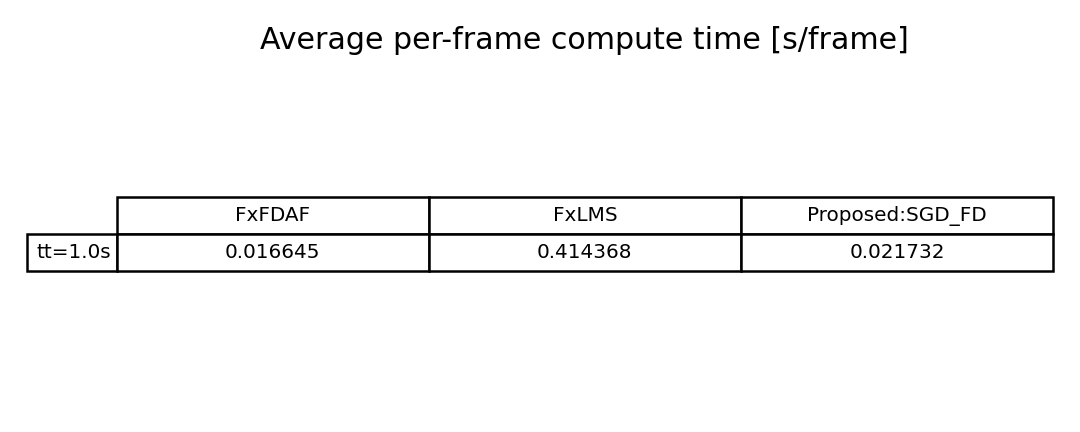
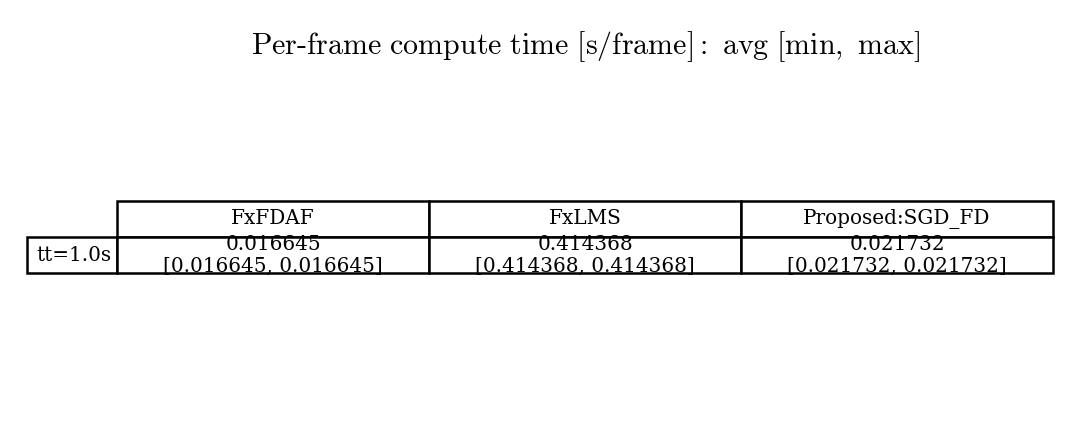
Enhance experiment 05 result plotting: add text rendering configuration, improve algorithm labeling, and update compute time statistics to include min/max values; refine figure layout and styling for clarity.

Changed region(s): [[0.0306, 0.4514, 0.9778, 0.662], [0.2139, 0.0602, 0.8556, 0.1505]]

diff --git a/src/plot_experiment_05_results.py b/src/plot_experiment_05_results.py
@@ -11,6 +11,18 @@ import numpy as np
 root = Path(__file__).resolve().parent.parent
 
 
+def _configure_text_rendering() -> None:
+    """Use Computer Modern mathtext for a LaTeX-like look without requiring TeX."""
+    plt.rcParams.update(
+        {
+            "text.usetex": False,
+            "font.family": "serif",
+            "mathtext.fontset": "cm",
+            "axes.unicode_minus": False,
+        }
+    )
+
+
 def _log_smooth_curve(freq_hz, mag_db, window_pts: int = 61):
     """Return a moving-average smoothed curve over a log-frequency grid."""
     f = np.asarray(freq_hz, dtype=float)
@@ -48,6 +60,25 @@ def load_results(experiment_name: str) -> tuple[dict, dict, Path]:
     with pkl_path.open("rb") as f:
         plot_data = pickle.load(f)
     return cfg, plot_data, results_root
+
+
+def _display_algo_label(algo: str) -> str:
+    return str(algo).replace("GHAM", "iHAM")
+
+
+def _add_panel_label(ax, label: str) -> None:
+    ax.text(
+        0.95,
+        0.90,
+        label,
+        transform=ax.transAxes,
+        ha="right",
+        va="top",
+        fontsize=14,
+        fontweight="bold",
+        bbox={"facecolor": "white", "edgecolor": "black", "linewidth": 1.0, "boxstyle": "square,pad=0.3"},
+        zorder=5,
+    )
 
 
 def _plot_mean_std(ax, series, color, label):
@@ -99,7 +130,6 @@ def _plot_response_mean_std(ax, series, color, label):
     avg = np.mean(y, axis=0)
     std = np.std(y, axis=0)
     m = ref_f > 0
-    # Plot only smoothed response to avoid clutter.
     f_s, avg_s = _log_smooth_curve(ref_f[m], avg[m], window_pts=121)
     _, std_s = _log_smooth_curve(ref_f[m], std[m], window_pts=121)
     ax.plot(f_s, avg_s, color=color, linewidth=1.25, label=label)
@@ -107,6 +137,7 @@ def _plot_response_mean_std(ax, series, color, label):
 
 
 def plot_results(experiment_name: str) -> None:
+    _configure_text_rendering()
     cfg, data, results_root = load_results(experiment_name)
 
     td_mse_curves = data.get("td_mse_curves", {})
@@ -126,18 +157,27 @@ def plot_results(experiment_name: str) -> None:
     algorithms = sorted({k[1] for k in all_keys})
 
     # Console compute-time table
-    print("Average compute time per frame [s/frame]:")
-    header = "transition_time_s" + "".join(f"\t{a}" for a in algorithms)
+    print("Compute time per frame [s/frame]: avg [min, max]")
+    header = "transition_time_s" + "".join(f"\t{_display_algo_label(a)}" for a in algorithms)
     print(header)
-    ct_table = np.full((len(transition_times), len(algorithms)), np.nan)
+    avg_table = np.full((len(transition_times), len(algorithms)), np.nan)
+    min_table = np.full_like(avg_table, np.nan)
+    max_table = np.full_like(avg_table, np.nan)
     for i, tt in enumerate(transition_times):
         row = [f"{tt}"]
         for j, algo in enumerate(algorithms):
             stats = compute_time_stats.get((tt, algo), None)
             if stats and int(stats.get("total_frames", 0)) > 0:
-                v = float(stats["total_time_s"]) / float(stats["total_frames"])
-                ct_table[i, j] = v
-                row.append(f"{v:.6f}")
+                v_avg = float(stats["total_time_s"]) / float(stats["total_frames"])
+                v_min = float(stats.get("min_avg_time_per_frame_s", np.nan))
+                v_max = float(stats.get("max_avg_time_per_frame_s", np.nan))
+                avg_table[i, j] = v_avg
+                min_table[i, j] = v_min
+                max_table[i, j] = v_max
+                if np.isfinite(v_min) and np.isfinite(v_max):
+                    row.append(f"{v_avg:.6f} [{v_min:.6f}, {v_max:.6f}]")
+                else:
+                    row.append(f"{v_avg:.6f}")
             else:
                 row.append("nan")
         print("\t".join(row))
@@ -146,24 +186,27 @@ def plot_results(experiment_name: str) -> None:
     algo_color = {a: colors(i % 10) for i, a in enumerate(algorithms)}
 
     n_rows = len(transition_times)
-    fig = plt.figure(figsize=(10, max(4.8, 2.5 * n_rows + 2.8)))
-    gs = fig.add_gridspec(n_rows + 1, 2, height_ratios=[1.0] * n_rows + [1.2])
+    fig = plt.figure(figsize=(5.8, max(5.0, 2.6 * n_rows + 2.8)))
+    gs = fig.add_gridspec(n_rows + 1, 2, height_ratios=[1.0] * n_rows + [1.2], hspace=0.48, wspace=0.34)
     axes = np.empty((n_rows, 2), dtype=object)
     for row in range(n_rows):
         axes[row, 0] = fig.add_subplot(gs[row, 0])
         axes[row, 1] = fig.add_subplot(gs[row, 1])
     ax_resp = fig.add_subplot(gs[n_rows, :])
 
+    # Panel labels
+    _add_panel_label(axes[0, 0], "A")
+    _add_panel_label(axes[0, 1], "B")
+    _add_panel_label(ax_resp, "C")
+
     for row, tt in enumerate(transition_times):
         ax_td = axes[row, 0]
         ax_val = axes[row, 1]
-        #ax_td.set_ylim([0.0, 0.02])
-        #ax_val.set_ylim([0.00, 10.0])
 
         for algo in algorithms:
             key = (tt, algo)
-            _plot_mean_std(ax_td, td_mse_curves.get(key, []), algo_color[algo], algo)
-            _plot_mean_std(ax_val, validation_curves.get(key, []), algo_color[algo], algo)
+            _plot_mean_std(ax_td, td_mse_curves.get(key, []), algo_color[algo], _display_algo_label(algo))
+            _plot_mean_std(ax_val, validation_curves.get(key, []), algo_color[algo], _display_algo_label(algo))
 
         for ax in (ax_td, ax_val):
             trans = tt_transitions.get(tt, None)
@@ -175,33 +218,31 @@ def plot_results(experiment_name: str) -> None:
                         ax.axvspan(float(t_start), float(t_end), color="0.85", alpha=0.35)
             ax.grid(True, linestyle=":", linewidth=0.6, alpha=0.8)
             if row == n_rows - 1:
-                ax.set_xlabel("Time [s]")
+                ax.set_xlabel(r"$\mathrm{Time\ [s]}$")
 
         ax_td.set_yscale("log")
-        ax_td.set_ylabel(f"TD-MSE\n(tt={tt}s)")
-        ax_td.set_title("Time-domain MSE")
+        ax_td.set_ylabel(r"$\mathrm{TD\text{-}MSE}$")
+        ax_td.set_title(r"$\mathrm{Time\mathrm{-}domain\ MSE}$")
 
         ax_val.axhline(1.0, color="black", linestyle="--", linewidth=1.0, alpha=0.7)
-        ax_val.set_ylabel("Validation error")
-        ax_val.set_title("Frequency-domain validation")
+        ax_val.set_ylabel(r"$D_{\mathrm{rel}}$")
+        ax_val.set_title(r"$\mathrm{Relative\ system\ distance}$")
 
-    handles, labels = axes[0, 0].get_legend_handles_labels()
-    if handles:
-        axes[0, 0].legend(handles, labels, loc="upper right", fontsize=8)
+    # Legend only in bottom subplot (response); skip legends on top subplots.
 
     # Bottom subplot: desired response, true LEM (unprocessed), and final equalized response.
     if target_example is not None and len(target_example.get("freq_axis", [])):
         f = np.asarray(target_example["freq_axis"], dtype=float)
         tdb = np.asarray(target_example["target_mag_db"], dtype=float)
         m = f > 0
-        ax_resp.plot(f[m], tdb[m], color="black", linestyle="-", linewidth=1.3, label="Desired")
+        ax_resp.plot(f[m], tdb[m], color="black", linestyle="-", linewidth=1.3, label=r"$\mathrm{Desired}$")
 
     if true_lem_example is not None and len(true_lem_example.get("freq_axis", [])):
         f_lem = np.asarray(true_lem_example["freq_axis"], dtype=float)
         lem_db = np.asarray(true_lem_example["lem_mag_db"], dtype=float)
         m_lem = (f_lem > 0) & np.isfinite(lem_db)
         f_lem_s, lem_db_s = _log_smooth_curve(f_lem[m_lem], lem_db[m_lem], window_pts=121)
-        ax_resp.plot(f_lem_s, lem_db_s, color="black", linestyle="--", linewidth=1.1, label="True LEM (unprocessed)")
+        ax_resp.plot(f_lem_s, lem_db_s, color="black", linestyle="--", linewidth=1.1, label=r"$\mathrm{True\ LEM\ (unprocessed)}$")
     else:
         print("No true_lem_response_example found in plot data. Re-run experiment_05.py after saving true LEM response to include dashed black reference.")
 
@@ -212,22 +253,37 @@ def plot_results(experiment_name: str) -> None:
                 by_algo[algo] = []
             by_algo[algo].extend(series)
         for algo in sorted(by_algo.keys()):
-            _plot_response_mean_std(ax_resp, by_algo[algo], algo_color.get(algo, "C0"), algo)
+            _plot_response_mean_std(ax_resp, by_algo[algo], algo_color.get(algo, "C0"), _display_algo_label(algo))
     else:
         print("No final_response_curves found in plot data. Re-run experiment_05.py to populate final equalized response subplot.")
 
     ax_resp.set_xscale("log")
     ax_resp.set_xlim(20, 24000)
-    ax_resp.set_xlabel("Frequency [Hz]")
+    ax_resp.set_xlabel(r"$\mathrm{Frequency\ [Hz]}$")
     ax_resp.set_ylim(-40, 20)
-    ax_resp.set_ylabel("Magnitude [dB]")
-    ax_resp.set_title("Desired vs Final Equalized Response")
+    ax_resp.set_ylabel(r"$\mathrm{Magnitude\ [dB]}$")
+    ax_resp.set_title(r"$\mathrm{Desired\ vs\ Final\ Equalized\ Response}$")
     ax_resp.grid(True, linestyle=":", linewidth=0.6, alpha=0.8)
     handles_resp, labels_resp = ax_resp.get_legend_handles_labels()
     if handles_resp:
-        ax_resp.legend(handles_resp, labels_resp, loc="best", fontsize=8)
+        ax_resp.legend(
+            handles_resp,
+            labels_resp,
+            loc="lower center",
+            ncol=min(2, len(handles_resp)),
+            fontsize=7.5,
+            frameon=True,
+            borderpad=0.18,
+            borderaxespad=0.6,
+            columnspacing=0.5,
+            handlelength=1.0,
+            handletextpad=0.30,
+            labelspacing=0.28,
+            fancybox=False,
+            framealpha=0.95,
+        )
 
-    fig.tight_layout()
+    fig.tight_layout(h_pad=0.9, w_pad=0.9, rect=(0.08, 0.02, 0.98, 0.98))
     out_png = results_root / f"{experiment_name}_curves.png"
     fig.savefig(out_png, dpi=180)
     print(f"Saved figure: {out_png}")
@@ -235,13 +291,27 @@ def plot_results(experiment_name: str) -> None:
     # Timing table figure
     fig_t, ax_t = plt.subplots(figsize=(max(6.0, 1.2 * len(algorithms) + 2.0), max(2.4, 0.6 * len(transition_times) + 1.8)))
     ax_t.axis("off")
-    cell_text = [[f"{v:.6f}" if np.isfinite(v) else "-" for v in row] for row in ct_table]
+    cell_text = []
+    for i in range(len(transition_times)):
+        row_cells = []
+        for j in range(len(algorithms)):
+            v_avg = avg_table[i, j]
+            v_min = min_table[i, j]
+            v_max = max_table[i, j]
+            if np.isfinite(v_avg) and np.isfinite(v_min) and np.isfinite(v_max):
+                row_cells.append(f"{v_avg:.6f}\n[{v_min:.6f}, {v_max:.6f}]")
+            elif np.isfinite(v_avg):
+                row_cells.append(f"{v_avg:.6f}")
+            else:
+                row_cells.append("-")
+        cell_text.append(row_cells)
     row_labels = [f"tt={tt}s" for tt in transition_times]
-    tbl = ax_t.table(cellText=cell_text, rowLabels=row_labels, colLabels=algorithms, cellLoc="center", loc="center")
+    table_labels = [_display_algo_label(a) for a in algorithms]
+    tbl = ax_t.table(cellText=cell_text, rowLabels=row_labels, colLabels=table_labels, cellLoc="center", loc="center")
     tbl.auto_set_font_size(False)
     tbl.set_fontsize(8)
     tbl.scale(1.0, 1.2)
-    ax_t.set_title("Average per-frame compute time [s/frame]")
+    ax_t.set_title(r"$\mathrm{Per\text{-}frame\ compute\ time\ [s/frame]:\ avg\ [min,\ max]}$")
     fig_t.tight_layout()
     out_table = results_root / f"{experiment_name}_compute_time_table.png"
     fig_t.savefig(out_table, dpi=180)
